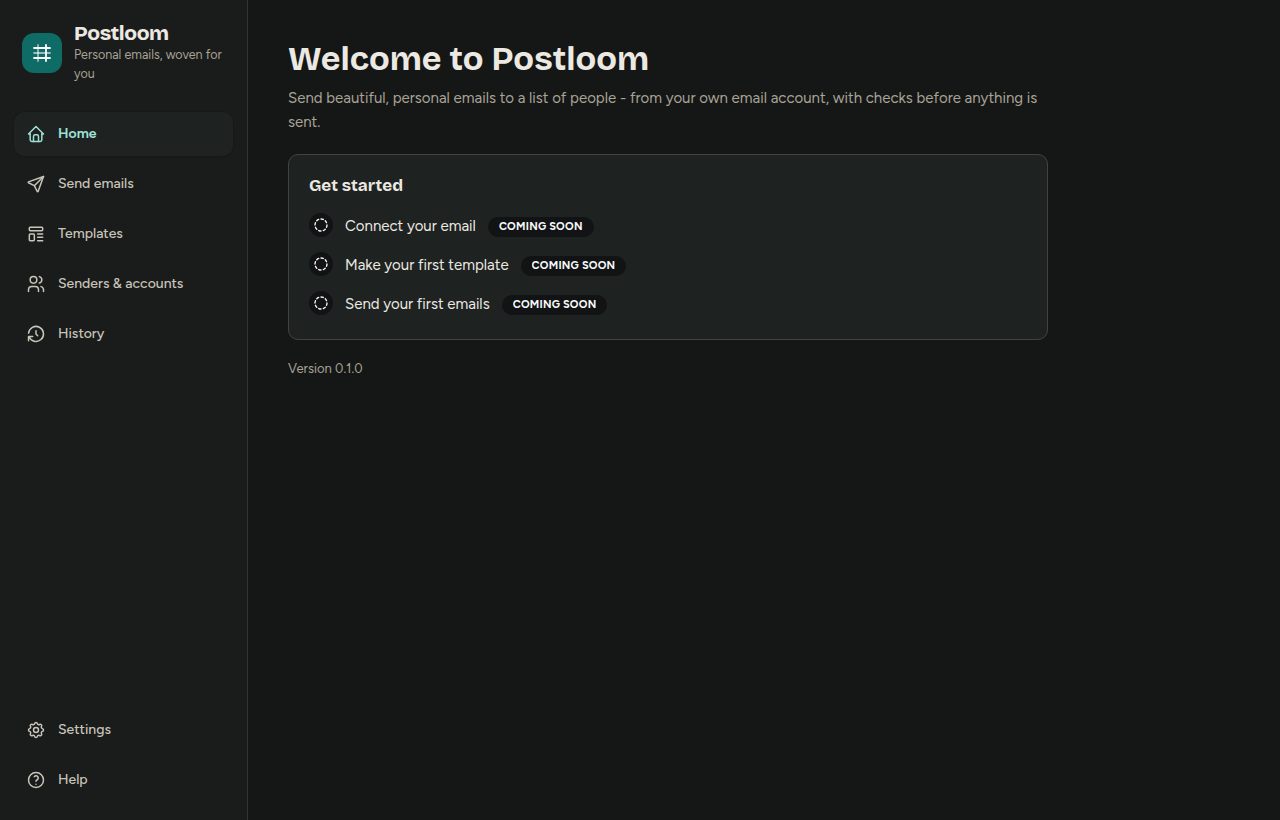
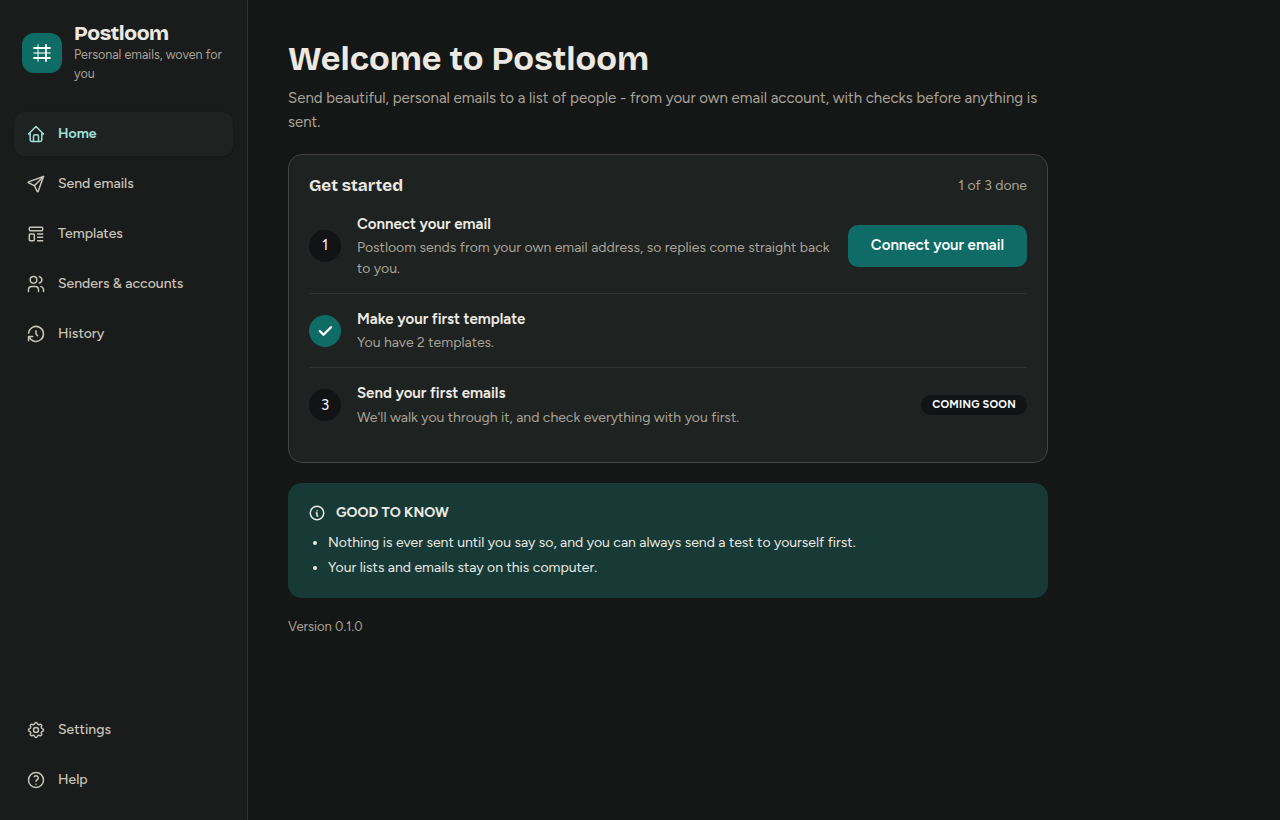
fix(accounts): check the sign-in in the main process when saving; fix sidebar match
- Saving a new account, or changing its password or server details, now
  signs in first in the main process and records the result, so a
  password that doesn't work is never stored and a just-checked account
  shows as Working.
- The sidebar no longer marks "Send emails" as current on
  "Senders & accounts" (matched whole path segments only).
- Screenshots of setup, Home checklist, senders and accounts.

Claude-Session: https://claude.ai/code/session_01BMQQrWQpb8JeBGLchMfXnE

diff --git a/apps/desktop/e2e/screenshots.spec.ts b/apps/desktop/e2e/screenshots.spec.ts
@@ -1,4 +1,7 @@
-import { test } from './fixtures';
+import { writeFileSync } from 'node:fs';
+import { join } from 'node:path';
+import { firstPage, launchApp, test } from './fixtures';
+import { startTestMailServer } from './mail-server';
 
 // Not part of the regular suite: run with SCREENSHOTS=1 to refresh docs/images.
 test.skip(!process.env['SCREENSHOTS'], 'screenshots only on demand');
@@ -33,4 +36,51 @@ test('capture screens for review', async ({ electronApp, page }) => {
     await page.waitForTimeout(300);
     await page.screenshot({ path: `${out}/settings-${scheme}.png` });
   }
+});
+
+test('capture setup and senders screens', async ({ userDataDir }) => {
+  const mail = await startTestMailServer({ username: 'asha@brightlane.example', password: 'pw' });
+  const caFile = join(userDataDir, 'test-ca.pem');
+  writeFileSync(caFile, mail.caPem);
+  const app = await launchApp(userDataDir, { POSTLOOM_TEST_EXTRA_CA_FILE: caFile });
+  const page = await firstPage(app);
+  await app.evaluate(({ BrowserWindow }) => {
+    BrowserWindow.getAllWindows()[0]?.setSize(1280, 820);
+  });
+
+  await page.getByRole('button', { name: 'Connect your email' }).click();
+  await page.getByRole('button', { name: "Let's start" }).click();
+  await page.getByRole('radio', { name: /Gmail/ }).check();
+  await page.waitForTimeout(300);
+  await page.screenshot({ path: `${out}/setup-provider-light.png` });
+
+  await page.getByRole('radio', { name: /Something else/ }).check();
+  await page.getByRole('button', { name: 'Continue with Something else' }).click();
+  await page.getByLabel('Your email address').fill('asha@brightlane.example');
+  await page.getByLabel(/^Password/).fill('pw');
+  await page.getByLabel('Outgoing mail server (SMTP)').fill('localhost');
+  await page.getByLabel('Port').fill(String(mail.port));
+  await page.getByLabel('A name for this account (optional)').fill('Office mail');
+  await page.getByRole('button', { name: 'Check and save' }).click();
+  await page.getByLabel('Name people see').fill('Asha Kapoor');
+  await page.getByRole('button', { name: 'Continue' }).click();
+  await page.getByRole('button', { name: 'Skip for now' }).click();
+  await page.getByRole('button', { name: 'Go to Home' }).click();
+
+  for (const scheme of ['light', 'dark'] as const) {
+    await page.emulateMedia({ colorScheme: scheme });
+    await page.getByRole('link', { name: 'Home' }).click();
+    await page.waitForTimeout(300);
+    await page.screenshot({ path: `${out}/home-checklist-${scheme}.png` });
+    await page.getByRole('link', { name: 'Senders & accounts' }).click();
+    await page.getByRole('tab', { name: /Senders/ }).click();
+    await page.waitForTimeout(300);
+    await page.screenshot({ path: `${out}/senders-${scheme}.png` });
+    await page.getByRole('tab', { name: /Email accounts/ }).click();
+    await page.waitForTimeout(300);
+    await page.screenshot({ path: `${out}/accounts-${scheme}.png` });
+  }
+
+  await app.close();
+  await mail.close();
 });

diff --git a/apps/desktop/src/renderer/src/components/ConnectAccountForm.tsx b/apps/desktop/src/renderer/src/components/ConnectAccountForm.tsx
@@ -17,7 +17,7 @@ import { IconAlertTriangle } from '@tabler/icons-react';
 import { useState, type ReactNode } from 'react';
 import { useTranslation } from 'react-i18next';
 import { errorKey } from '../api/ipc';
-import { useCreateAccount, useSecurity, useTestConnection } from '../api/queries';
+import { useCreateAccount, useSecurity } from '../api/queries';
 
 interface ConnectAccountFormProps {
   provider: ProviderId;
@@ -27,8 +27,8 @@ interface ConnectAccountFormProps {
 }
 
 /**
- * Email address + (app) password, checked with the provider before anything is
- * saved. Server details are pre-filled from the provider and hidden unless
+ * Email address + (app) password. Saving signs in to the provider first
+ * (in the main process), so nothing is stored unless it works. Server details are pre-filled from the provider and hidden unless
  * the person picked "Something else" or asks to see them.
  */
 export function ConnectAccountForm({
@@ -39,7 +39,6 @@ export function ConnectAccountForm({
   const { t } = useTranslation();
   const preset = PROVIDER_PRESETS[provider];
   const security = useSecurity();
-  const testConnection = useTestConnection();
   const createAccount = useCreateAccount();
 
   const [address, setAddress] = useState('');
@@ -65,26 +64,22 @@ export function ConnectAccountForm({
     host: host.trim() ? null : t('accounts.hostMissing'),
   };
   const valid = !problems.address && !problems.password && !problems.host;
-  const busy = testConnection.isPending || createAccount.isPending;
-  const failure = testConnection.error ?? createAccount.error;
+  const busy = createAccount.isPending;
+  const failure = createAccount.error;
 
   const submit = async (event: { preventDefault: () => void }) => {
     event.preventDefault();
     setSubmitted(true);
     if (!valid || busy || cantSavePasswords) return;
-    testConnection.reset();
     createAccount.reset();
-    const connection = {
-      host: host.trim(),
-      port,
-      security: connectionSecurity,
-      username: signInName,
-      password,
-    };
     try {
-      await testConnection.mutateAsync(connection);
+      // The main process signs in first and only saves the account if that works.
       const account = await createAccount.mutateAsync({
-        ...connection,
+        host: host.trim(),
+        port,
+        security: connectionSecurity,
+        username: signInName,
+        password,
         provider,
         name: name.trim() || defaultName,
       });

diff --git a/apps/desktop/src/main/accounts.test.ts b/apps/desktop/src/main/accounts.test.ts
@@ -49,10 +49,18 @@ afterEach(async () => {
 });
 
 describe('email accounts', () => {
-  it('saves an account without ever returning the password', async () => {
+  it('signs in before saving, and never returns the password', async () => {
     const account = await handlers['accounts:create'](gmail);
 
-    expect(account).toMatchObject({ name: 'Office Gmail', hasPassword: true, senderCount: 0 });
+    expect(verify).toHaveBeenCalledWith(
+      expect.objectContaining({ password: gmail.password, extraCa: 'TEST-CA' }),
+    );
+    expect(account).toMatchObject({
+      name: 'Office Gmail',
+      hasPassword: true,
+      senderCount: 0,
+      lastTestOk: true,
+    });
     expect(JSON.stringify(account)).not.toContain('abcd');
     expect(JSON.stringify(await handlers['accounts:list'](undefined))).not.toContain('abcd');
     // Stored encrypted, not as plain text.
@@ -83,6 +91,37 @@ describe('email accounts', () => {
       code: 'EMAIL_AUTH_FAILED',
     });
     expect((await repos.accounts.get(id)).lastTestOk).toBe(false);
+  });
+
+  it('does not save an account whose sign-in fails', async () => {
+    verify.mockRejectedValueOnce(
+      new AppError({ code: 'EMAIL_AUTH_FAILED', messageKey: 'errors.emailAuthFailed' }),
+    );
+    await expect(handlers['accounts:create'](gmail)).rejects.toMatchObject({
+      code: 'EMAIL_AUTH_FAILED',
+    });
+    expect(await handlers['accounts:list'](undefined)).toEqual([]);
+  });
+
+  it('keeps the old password when a new one does not work', async () => {
+    const { id } = await handlers['accounts:create'](gmail);
+    verify.mockRejectedValueOnce(
+      new AppError({ code: 'EMAIL_AUTH_FAILED', messageKey: 'errors.emailAuthFailed' }),
+    );
+    await expect(handlers['accounts:update']({ id, password: 'wrong' })).rejects.toMatchObject({
+      code: 'EMAIL_AUTH_FAILED',
+    });
+    await handlers['accounts:test']({ id });
+    expect(verify).toHaveBeenLastCalledWith(expect.objectContaining({ password: gmail.password }));
+  });
+
+  it('re-checks the sign-in when server details change', async () => {
+    const { id } = await handlers['accounts:create'](gmail);
+    verify.mockClear();
+    await handlers['accounts:update']({ id, port: 465, security: 'tls' });
+    expect(verify).toHaveBeenCalledWith(
+      expect.objectContaining({ port: 465, security: 'tls', password: gmail.password }),
+    );
   });
 
   it('changes the password only when a new one is given', async () => {

diff --git a/apps/desktop/src/main/accounts.ts b/apps/desktop/src/main/accounts.ts
@@ -41,6 +41,8 @@ type AccountHandlers = Pick<
   | 'senders:delete'
 >;
 
+const CONNECTION_FIELDS = ['host', 'port', 'security', 'username'] as const;
+
 const TEST_EMAIL: WriteDocument = {
   type: 'doc',
   content: [
@@ -152,19 +154,40 @@ export function createAccountHandlers({
       return (await repos.accounts.list()).map((a) => toAccountInfo(a, counts.get(a.id) ?? 0));
     },
 
+    // Saving checks the sign-in first, here in the main process: a password
+    // that doesn't work is never stored.
     'accounts:create': async ({ password, dailyLimit, delayMs, ...input }) => {
+      const { host, port, security, username } = input;
+      await smtp.verify({ host, port, security, username, password, extraCa });
       const account = await repos.accounts.create({
         ...input,
         dailyLimit: dailyLimit ?? null,
         delayMs: delayMs ?? null,
       });
       await repos.accounts.setSecret(account.id, vault.encrypt(password));
+      await repos.accounts.recordTest(account.id, true);
       return accountInfo(account.id);
     },
 
-    'accounts:update': async ({ id, password, ...changes }) => {
-      await repos.accounts.update(id, definedOnly(changes));
+    'accounts:update': async ({ id, password, ...rest }) => {
+      const changes = definedOnly(rest);
+      const connectionChanged =
+        password !== undefined || CONNECTION_FIELDS.some((field) => changes[field] !== undefined);
+      if (connectionChanged) {
+        const current = await repos.accounts.get(id);
+        const next = { ...current, ...changes };
+        await smtp.verify({
+          host: next.host,
+          port: next.port,
+          security: next.security,
+          username: next.username,
+          password: password ?? (await savedConfig(current)).password,
+          extraCa,
+        });
+      }
+      await repos.accounts.update(id, changes);
       if (password !== undefined) await repos.accounts.setSecret(id, vault.encrypt(password));
+      if (connectionChanged) await repos.accounts.recordTest(id, true);
       return accountInfo(id);
     },
 

diff --git a/apps/desktop/src/renderer/src/pages/SetupPage.test.tsx b/apps/desktop/src/renderer/src/pages/SetupPage.test.tsx
@@ -25,7 +25,7 @@ describe('SetupPage', () => {
     // Connect: validated before anything is sent to the provider.
     await userEvent.click(screen.getByRole('button', { name: 'Check and save' }));
     expect(await screen.findByText(/doesn't look like an email address/)).toBeInTheDocument();
-    expect(api.accounts.testConnection).not.toHaveBeenCalled();
+    expect(api.accounts.create).not.toHaveBeenCalled();
 
     await userEvent.type(screen.getByLabelText(/Your email address/), 'asha@example.com');
     await userEvent.type(screen.getByLabelText(/App password/), 'abcd efgh ijkl mnop');
@@ -42,7 +42,6 @@ describe('SetupPage', () => {
         name: 'My Gmail',
       });
     });
-    expect(api.accounts.testConnection).toHaveBeenCalledBefore(vi.mocked(api.accounts.create));
 
     // Who you are.
     await userEvent.type(await screen.findByLabelText(/Name people see/), 'Asha Kapoor');
@@ -68,7 +67,7 @@ describe('SetupPage', () => {
   it('explains a rejected password and does not save the account', async () => {
     const api = mockApi({
       accounts: {
-        testConnection: vi.fn(() =>
+        create: vi.fn(() =>
           Promise.resolve({
             ok: false as const,
             error: { code: 'EMAIL_AUTH_FAILED' as const, messageKey: 'errors.emailAuthFailed' },
@@ -86,7 +85,9 @@ describe('SetupPage', () => {
     await userEvent.click(screen.getByRole('button', { name: 'Check and save' }));
 
     expect(await screen.findByRole('alert')).toHaveTextContent(/didn't accept the password/);
-    expect(api.accounts.create).not.toHaveBeenCalled();
+    // Still on the connect step: nothing moved on.
+    expect(screen.getByRole('button', { name: 'Check and save' })).toBeInTheDocument();
+    expect(api.senders.create).not.toHaveBeenCalled();
   });
 
   it('asks for server details for other providers and warns about a weak keyring', async () => {

diff --git a/apps/desktop/src/renderer/src/components/FixPasswordForm.tsx b/apps/desktop/src/renderer/src/components/FixPasswordForm.tsx
@@ -5,7 +5,7 @@ import { IconAlertTriangle } from '@tabler/icons-react';
 import { useState } from 'react';
 import { useTranslation } from 'react-i18next';
 import { errorKey } from '../api/ipc';
-import { useTestConnection, useUpdateAccount } from '../api/queries';
+import { useUpdateAccount } from '../api/queries';
 
 interface FixPasswordFormProps {
   account: EmailAccountInfo;
@@ -16,18 +16,16 @@ interface FixPasswordFormProps {
 export function FixPasswordForm({ account, onFixed }: FixPasswordFormProps) {
   const { t } = useTranslation();
   const [password, setPassword] = useState('');
-  const testConnection = useTestConnection();
   const updateAccount = useUpdateAccount();
-  const busy = testConnection.isPending || updateAccount.isPending;
-  const failure = testConnection.error ?? updateAccount.error;
+  const busy = updateAccount.isPending;
+  const failure = updateAccount.error;
   const preset = PROVIDER_PRESETS[account.provider];
 
   const submit = async (event: { preventDefault: () => void }) => {
     event.preventDefault();
     if (!password || busy) return;
-    const { host, port, security, username } = account;
     try {
-      await testConnection.mutateAsync({ host, port, security, username, password });
+      // Signs in with the new password first; it's only saved if that works.
       onFixed(await updateAccount.mutateAsync({ id: account.id, password }));
     } catch {
       // Shown below from the mutation state.

diff --git a/apps/desktop/src/renderer/src/pages/SendersPage.tsx b/apps/desktop/src/renderer/src/pages/SendersPage.tsx
@@ -590,14 +590,10 @@ function AccountCard({ account }: { account: EmailAccountInfo }) {
           </Text>
           <FixPasswordForm
             account={account}
-            onFixed={(fixed) => {
-              testAccount.mutate(fixed.id, {
-                onSuccess: () => {
-                  notifications.show({
-                    message: t('accounts.fixed', { name: account.name }),
-                    color: 'green',
-                  });
-                },
+            onFixed={() => {
+              notifications.show({
+                message: t('accounts.fixed', { name: account.name }),
+                color: 'green',
               });
             }}
           />

diff --git a/apps/desktop/src/renderer/src/App.test.tsx b/apps/desktop/src/renderer/src/App.test.tsx
@@ -32,6 +32,16 @@ describe('app navigation', () => {
     expect(screen.getByRole('link', { name: 'Home' })).not.toHaveAttribute('aria-current');
   });
 
+  it('does not mark "Send emails" as current on Senders & accounts', () => {
+    renderWithProviders(<AppRoutes />, { route: '/senders' });
+
+    expect(screen.getByRole('link', { name: 'Senders & accounts' })).toHaveAttribute(
+      'aria-current',
+      'page',
+    );
+    expect(screen.getByRole('link', { name: 'Send emails' })).not.toHaveAttribute('aria-current');
+  });
+
   it('shows the getting-started checklist and version on Home', async () => {
     renderWithProviders(<AppRoutes />);
 

diff --git a/apps/desktop/src/renderer/src/pages/SendersPage.test.tsx b/apps/desktop/src/renderer/src/pages/SendersPage.test.tsx
@@ -113,15 +113,6 @@ describe('SendersPage', () => {
     await waitFor(() => {
       expect(api.accounts.update).toHaveBeenCalledWith({ id: 'a1', password: 'new pass' });
     });
-    expect(api.accounts.testConnection).toHaveBeenCalledWith({
-      host: 'smtp.gmail.com',
-      port: 587,
-      security: 'starttls',
-      username: 'asha@example.com',
-      password: 'new pass',
-    });
-    await waitFor(() => {
-      expect(api.accounts.test).toHaveBeenCalledWith({ id: 'a1' });
-    });
+    expect(await screen.findByText('Office Gmail is working again')).toBeInTheDocument();
   });
 });

diff --git a/apps/desktop/src/renderer/src/layout/AppLayout.tsx b/apps/desktop/src/renderer/src/layout/AppLayout.tsx
@@ -39,7 +39,8 @@ export function AppLayout() {
   const { pathname } = useLocation();
 
   const renderItem = ({ to, labelKey, icon: Icon }: NavItem) => {
-    const active = to === '/' ? pathname === '/' : pathname.startsWith(to);
+    // Whole path segments only: '/send' must not match '/senders'.
+    const active = to === '/' ? pathname === '/' : pathname === to || pathname.startsWith(`${to}/`);
     return (
       <NavLink
         key={to}
